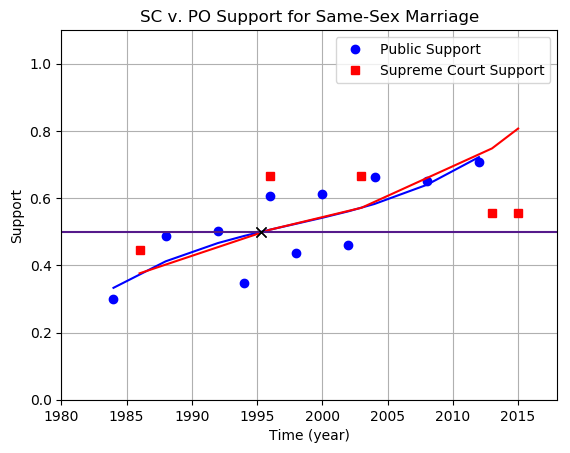
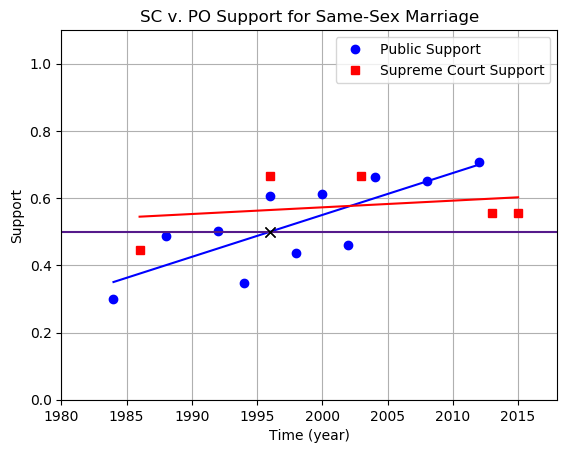
updates

diff --git a/plot.py b/plot.py
@@ -26,7 +26,7 @@ f3 = np.poly1d(po_deg3)
 #find paradigm shift for PO.
 #assuming one point of intersectionself.
 #this is guaranteed for a linear fit.
-p_shift_po=opt.fsolve(f3-NEUTRAL,2000)
+p_shift_po=opt.fsolve(f1-NEUTRAL,2000)
 
 #SC
 x_sc=list(sc_support.keys())
@@ -37,18 +37,20 @@ slope, intercept, r_value, p_value, std_err = stats.linregress(x_sc,y_sc)
 
 #degree 1 model for SC
 sc_deg1=np.polyfit(x_sc,y_sc,1)
-g1 = np.poly1d(po_deg1)
+g1 = np.poly1d(sc_deg1)
 #degree 3 model for SC
 sc_deg3=np.polyfit(x_sc,y_sc,3)
-g3 = np.poly1d(po_deg3)
+g3 = np.poly1d(sc_deg3)
 
 #find paradigm shift for SC.
 #assuming one point of intersection.
 #this is guaranteed for a linear fit.
-p_shift_sc=opt.fsolve(f3-NEUTRAL,2000)
+p_shift_sc=opt.fsolve(g1-NEUTRAL,2000)
 
 #find difference of paradigm shift
 p_shift_diff = p_shift_sc - p_shift_po
+
+print(p_shift_diff)
 
 
 
@@ -58,12 +60,12 @@ p_shift_diff = p_shift_sc - p_shift_po
 #average public opinion on issue
 plt.plot(all_po_avg.keys(),all_po_avg.values(),'bo',label='Public Support')
 #model for PO data
-plt.plot(x_po,f3(x_po),'-b')
+plt.plot(x_po,f1(x_po),'-b')
 
 #supreme court decisions
 plt.plot(sc_support.keys(),sc_support.values(),'rs',label='Supreme Court Support')
 #model for SC data
-plt.plot(x_sc,g3(x_sc),'-r')
+plt.plot(x_sc,g1(x_sc),'-r')
 
 #include horizontal neutral opinion line
 plt.axhline(y=NEUTRAL,color='#551A8B')
